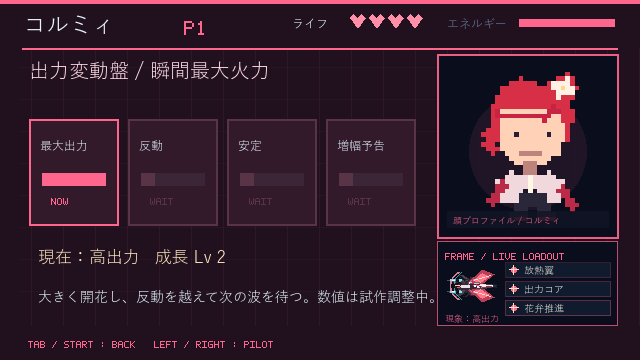
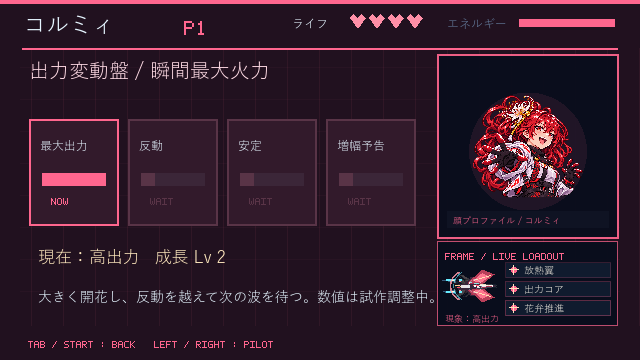
Use selected pixel pilot portraits in dialogue

Changed region(s): [[0.7188, 0.1833, 0.9062, 0.6111]]

diff --git a/docs/manjushage/ART_ASSETS.md b/docs/manjushage/ART_ASSETS.md
@@ -165,7 +165,8 @@ AUD-013-GAME：audio/wistful_demo.wav（生成物、ZIP同梱）、tools/build_w
 - **CAP-V09-STG1-001**：`docs/screenshots/latest/stage1_enemy_profiles_20261116.png`。640×360、2026-11-16、Godot 4.6.3通常レンダラーで`res://main.tscn -- --shot=encounter`を実行して保存した実ゲーム画面。原本はこの実行結果であり、敵PNGなどの新規アート原本ではない。内容: Stage 1の撮影用遭遇配置、3P HUD、個別化した敵縮尺／予告線／敵弾。状態: 動作表示の記録／正式原画・人間プレイ検収・音声検収ではない。外部画像・音源の混入なし。
 - **CAP-V09-STG1-002**：`docs/screenshots/latest/stage1_long_body_20261116.png`。640×360、2026-11-16、Godot 4.6.3通常レンダラーで`res://main.tscn -- --shot=long-body`を実行して保存した実ゲーム画面。原本はゲーム実行結果で、新規敵PNGではない。内容: STG1-ENEMY-DRAFT-001のMB01を無加工で使った長胴連節遭遇（4尾節）、3P HUD、周辺の通常敵。状態: 動作表示の記録／正式原画・人間プレイ検収・音声検収ではない。外部画像・音源の混入なし。
 - **CAP-V09-STG1-003**：`docs/screenshots/latest/stage1_bullet_curtain_20261116.png`。640×360、2026-11-16、Godot 4.6.3通常レンダラーで`res://main.tscn -- --shot=bullet-curtain`を実行して保存した実ゲーム画面。原本はこの実行結果であり、新規敵PNG・弾画像・音源ではない。内容: STG1-ENEMY-DRAFT-001のMB01と周辺5体による一拍目／二拍目の段階弾幕、3P HUD、生体背景。状態: 動作表示の記録／正式原画・人間プレイ検収・音声検収ではない。外部画像・音源の混入なし。
-- **V09-PILOT-001**：`art/concepts/pilot_cormii_slim_v01.png`、`pilot_jiyoza_slim_v01.png`、`pilot_mafio_slim_v01.png`（各24×32、PNG alpha背景透過）。原本: リポジトリ履歴コミット`76b30b0`（2026-11-01、slim pilot spritesを追加）。制作方法: 先行Codex制作パスのピクセル人物素材としてユーザーが採用を指示。作者・外部出典・ライセンス詳細: 当時の台帳に未記録のため**未確認**。状態: v0.9ステータス画面の試作採用／正式な人物原画・公式衣装・正史設定への採用ではない。
-- **V09-STATUS-001**：`game.gd`のプログラム描画（透明全身スプライトによる顔プロファイル、機体プレビュー、3枠の搭載系、マフィオの消化度／保持技／3工程）。制作方法: CodexによるGDScript、2026-11-16、v0.9試作採用。顔画像はV09-PILOT-001をnearest相当のピクセル表示で拡大し、UI-017のユーザー提供ボード切り抜きは欠損時だけに使う。新規人物原画・装備画像・音源は追加していない。搭載系の呼称は実装済み挙動の説明用で、正式装備名・保存インベントリではない。
-- **CAP-V09-STATUS-001**：`docs/screenshots/latest/stage1_status_before_loadout_20261116.png`、`stage1_status-cormii_loadout_20261116.png`、`stage1_status-jiyoza_loadout_20261116.png`、`stage1_status-mafio_loadout_20261116.png`。640×360、2026-11-16、Godot 4.6.3通常レンダラーで`res://main.tscn -- --shot=status-*`を実行して保存した実ゲーム画面。内容: 改修前1枚と、V09-PILOT-001の背景透過3人／搭載系／実機体プレビュー、マフィオの撮影用消化度52%を含む改修後3枚。撮影用の経験値・消化値は実保存に書き込まない。状態: 動作表示の記録／正式人物原画・人間プレイ検収・音声検収ではない。外部画像・音源の混入なし。
+- **V09-PILOT-002**：`art/originals/pilots/*_transparent_source_v01.png`および`art/active/pilots/*_dialogue_pixel_v01.png`（詳細な来歴・寸法・SHA-256は`art/active/pilots/README.md`）。原本: ユーザーが2026-11-17に基本ビジュアルとして指定した、別Codex作業の透明背景生成素材。コピー元の`manifest.json`はreference-based generated derivative（失われた原画の復元ではない）と記録する。制作方法: 元の透明ソースを保持し、Codex ImageGenで16bit風ドット絵・透明背景のv01へ変換。状態: ステータス、プロローグ会話、Stage 1幕間の**v0.9実装上の基本肖像として採用**。全ての衣装・外見詳細を長期の正式設定へ昇格したものではない。旧V09-PILOT-001の24×32素材は保管のみで、現行表示には使用しない。
+- **V09-STATUS-001**：`game.gd`のプログラム描画（V09-PILOT-002による顔プロファイル、機体プレビュー、3枠の搭載系、マフィオの消化度／保持技／3工程）。制作方法: CodexによるGDScript、2026-11-16〜17、v0.9試作採用。顔画像は選定済み透明肖像をドット絵化したV09-PILOT-002をnearest表示し、UI-017のユーザー提供ボード切り抜きは欠損時だけに使う。搭載系の呼称は実装済み挙動の説明用で、正式装備名・保存インベントリではない。
+- **CAP-V09-PILOT-001**：`docs/screenshots/latest/prologue_cormii_pixel_dialogue_20261117.png`。640×360、2026-11-17、Godot 4.6.3通常レンダラーによる実ゲーム会話画面。内容: プロローグ03でコルミィが発話し、V09-PILOT-002のドット絵肖像が右上へ表示される。状態: 会話UIの表示記録。人間プレイ検収、物理パッド、実聴、性能測定、長期の正式人物設定を意味しない。
+- **CAP-V09-STATUS-001**：`docs/screenshots/latest/stage1_status_before_loadout_20261116.png`、`stage1_status-cormii_loadout_20261116.png`、`stage1_status-jiyoza_loadout_20261116.png`、`stage1_status-mafio_loadout_20261116.png`。640×360、Godot 4.6.3通常レンダラーの`res://main.tscn -- --shot=status-*`で保存した実ゲーム画面。最初の1枚は改修前、後3枚は2026-11-17にV09-PILOT-002へ更新したライブステータス。撮影用の経験値・消化値は実保存に書き込まない。状態: 動作表示の記録／正式人物原画・人間プレイ検収・音声検収ではない。外部画像・音源の混入なし。
 

diff --git a/art/active/pilots/README.md b/art/active/pilots/README.md
@@ -1,0 +1,35 @@
+# v0.9 パイロット会話肖像 — 採用台帳
+
+## 採用範囲
+
+2026-11-17、ユーザーがこの3人の背景透過ビジュアルを「基本」として指定した。v0.9では、ステータス画面、プロローグの発話者肖像、Stage 1クリア後の通信幕間で共通に使う。ゲーム上の呼称と性別は既存の設定を維持する。
+
+| パイロット | 選定済み透過ソース | アクティブなドット絵 | 表示先 |
+|---|---|---|---|
+| コルミィ | `art/originals/pilots/cormii_transparent_source_v01.png` | `cormii_dialogue_pixel_v01.png` | ステータス／プロローグ／幕間 |
+| ジヨーザ（男の子） | `art/originals/pilots/jiyoza_transparent_source_v01.png` | `jiyoza_dialogue_pixel_v01.png` | ステータス／プロローグ／幕間 |
+| マフィオ（ボーイッシュな女の子） | `art/originals/pilots/mafio_transparent_source_v01.png` | `mafio_dialogue_pixel_v01.png` | ステータス／プロローグ／幕間 |
+
+## 来歴と制作方法
+
+- 選定済み透過ソースのコピー元: `C:\Users\wa-ma\Documents\Codex\2026-11-07\new-chat\outputs\manjushage-transparent\characters\`。同梱`manifest.json`は、これらを「reference-based generated derivative」であり、失われた原画を復元したものではないと記録している。
+- アクティブ版: CodexのImageGenで2026-11-17に各選定ソースから生成。透明背景を維持し、既存のポーズ、表情、髪色、衣装の識別を保ちながら、640×360のUIでnearest表示できる16bit風のドット絵表現へ変換した。外部ゲームの人物・ロゴ・文字は指定・使用していない。
+- 採用状態: ユーザー指示に基づく**v0.9実装の基本肖像**。服装等の全詳細を長期の公式設定として新規決定したものではない。正式設定を更新する場合は、別途CANON/CHARACTERSの判断を要する。
+- 置換時: 同名ファイルを上書きせず、`*_v02`を追加してからコード、`ART_ASSETS.md`、実画面をまとめて更新する。元の選定ソースは消さない。
+
+## 版・検証値
+
+| ファイル | 寸法 | SHA-256 |
+|---|---:|---|
[6 lines of base64/hex data omitted]
+
+## 検証状態
+
+- Godot 4.6.3 console + 隔離`APPDATA`: `test_status_v09.gd`、`test_prologue.gd`、`stage_intermission_smoke.gd`、`test_v09.gd`がPASS。
+- `docs/screenshots/latest/prologue_cormii_pixel_dialogue_20261117.png`は通常レンダラーで保存済みの640×360会話画面。コルミィの発話時にこのドット絵肖像が表示される。
+- 人間のキーボード操作、物理コントローラー、音楽の実聴、性能測定は未検証。今回のシェルからの通常Godot再起動はWindows signal 11で失敗し、配布用Windowsパッケージの更新はしていない。

diff --git a/docs/manjushage/NEXT_ACTION.md b/docs/manjushage/NEXT_ACTION.md
@@ -114,7 +114,13 @@
 
 # 2026-11-16 ステータス／機体識別後の次手
 
-1. 人間のキーボード操作で、コルミィ／ジヨーザ／マフィオの花弁翼・解析センサー・捕食ポッドが横／縦の両方で識別でき、背景透過の24×32顔プロファイル／搭載系／マフィオの消化度がプレイを妨げず読めるか確認する。物理パッド、実聴、性能測定は別に記録する。
+1. 人間のキーボード操作で、コルミィ／ジヨーザ／マフィオの花弁翼・解析センサー・捕食ポッドが横／縦の両方で識別でき、選定済み透明肖像を元にしたドット絵顔プロファイル／搭載系／マフィオの消化度がプレイを妨げず読めるか確認する。物理パッド、実聴、性能測定は別に記録する。
 2. `jingle_cues.gd`、幕間・ブリーフィング関連の未追跡ファイルを他実行が編集している可能性があるため、所有と内容を確認してから、開始ジングル→ブリーフィング→幕間→ボス曲変化の順に安全に統合する。Antigravity曲はWAV/OGG等の原本、制作方法、採否、利用条件を受領・登録してから接続する。
 3. 生体背景は通常レンダラーの連続キャプチャを基に、弾幕と敵の可読性を壊さない範囲で脈動・遠景・前景の動きを改善する。背景改修後は1〜3人、救出、被弾無敵、横縦、保存を回帰する。
+
+# 2026-11-17 選定済み3人肖像の次手
+
+1. `art/active/pilots/README.md`を基準に、原寸透明ソースを残したままv02以降を追加する。現行`*_dialogue_pixel_v01.png`は、ユーザーが基本に指定した3人を元にした、ステータス／プロローグ／Stage 1幕間の共通肖像である。旧24×32人物素材へ戻さない。
+2. 通常レンダラーが起動できる環境で、Stage 1クリア→各3人の幕間台詞を640×360連続キャプチャし、肖像の縮尺、会話枠との干渉、Enter/Spaceの送り／スキップを**人間のキーボード操作**で確認する。現在はconsoleの自動回帰のみPASSで、今回の通常Godot再起動はWindows signal 11のため未確認。
+3. 新しいPNGをWindows配布へ入れる前に、`Image.load_from_file`を静的Texture2D参照へ置き換え、PCK/Windows起動試験で3人の肖像が実際に同梱されることを確認する。GitHubの再取得／pushはcredential-managerの`NtCreateDirectoryObject ... 0xC0000022`を直してから、他者更新を確認した非強制操作に限る。
 

diff --git a/art/active/README.md b/art/active/README.md
@@ -8,6 +8,10 @@
 3. Godot 4.6でプロジェクトを開いて画像のインポートを完了し、F5で実行。編集中にファイルを差し替えた場合は、再インポート後に**ゲームを停止して再起動**すると再読み込みする。ゲーム起動中に自動更新されるホットリロードではない。
 4. 対応PNGがない、または読み込めなければ今までのGDScript描画に自動で戻る。途中の空白を作らない。
 
+## 2026-11-17: 会話用3人肖像
+
+`pilots/`には、ユーザーが基本ビジュアルとして指定したコルミィ、ジヨーザ、マフィオの透明背景ドット絵を置く。これは一般の差し替えスロットではなく、ステータス／プロローグ／Stage 1通信幕間が共用するv0.9の肖像である。原寸ソース、生成方法、ハッシュ、採用範囲は[パイロット肖像台帳](pilots/README.md)に記録する。詳細外見を正式設定へ昇格する判断とは別なので、差し替える場合は版を増やして台帳と実画面を更新する。
+
 ## 交換できる画像（全13スロット）
 | ファイル名 | ゲーム内の用途 | 推奨画像のピクセル寸法 | 透明背景 |
 |---|---|---|---|
